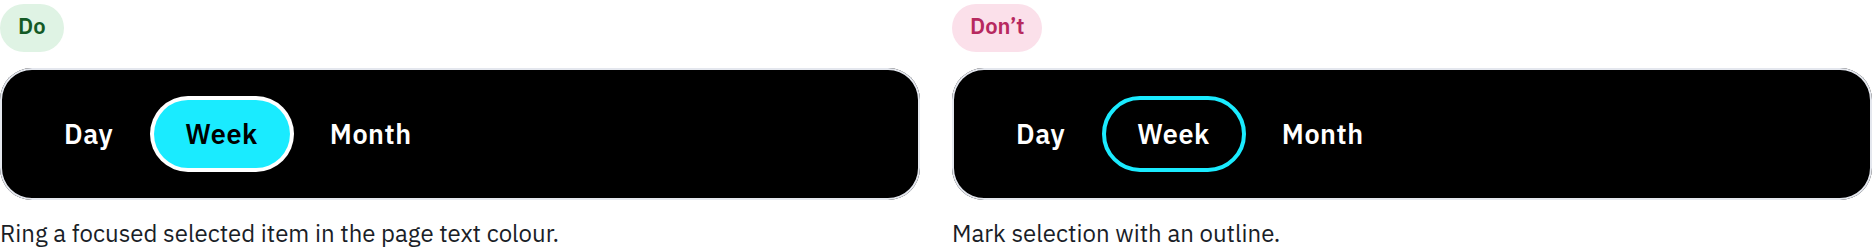
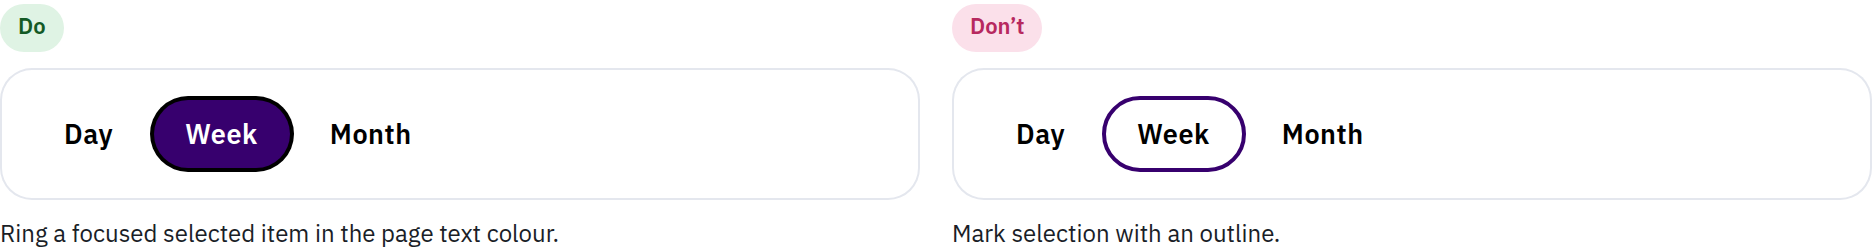
Show High Contrast White on the light forced-colours pair (#768)
The ring walk measured the light theme's ring on the black canvas at
2.86:1. The light page now shows Windows High Contrast White, and the
dark page keeps High Contrast Black.

diff --git a/stories/guidelines/_colour-and-theming.js b/stories/guidelines/_colour-and-theming.js
@@ -15,12 +15,19 @@ export const SPEC_CSS = `
     .gl-literal .ui-callout__icon { color: #20dcf5; }
     .gl-drift { --pink: var(--accent); }
     .gl-grey .ui-input { background: var(--surface-2); border-color: transparent; }
-    /* Windows High Contrast Black, fixed: forced colours ignore the kit theme, and JSDOM's
-       own system colours are not the ones a browser paints, so the walk measures
-       these: canvas #000, text #fff, highlight #1aebff, highlight text #000. */
+    /* Windows High Contrast, written out: JSDOM's own system colours are not the ones
+       a browser paints. Dark shows High Contrast Black (canvas #000, text #fff,
+       highlight #1aebff, highlight text #000). Light shows High Contrast White
+       (canvas #fff, text #000, highlight #37006e, highlight text #fff), because the
+       ring walk measures the light theme's ring on this canvas. */
     .gl-forced { background: #000; color: #fff; padding: var(--space-3); }
     .gl-forced .ui-seg { background: #000; border-color: #fff; }
     .gl-forced .ui-seg button { background: #000; color: #fff; }
     .gl-forced--fill .ui-seg button[aria-pressed="true"] { background: #1aebff; color: #000; box-shadow: 0 0 0 2px #fff; }
     .gl-forced--outline .ui-seg button[aria-pressed="true"] { outline: 2px solid #1aebff; }
+    [data-theme="light"] .gl-forced { background: #fff; color: #000; }
+    [data-theme="light"] .gl-forced .ui-seg { background: #fff; border-color: #000; }
+    [data-theme="light"] .gl-forced .ui-seg button { background: #fff; color: #000; }
+    [data-theme="light"] .gl-forced--fill .ui-seg button[aria-pressed="true"] { background: #37006e; color: #fff; box-shadow: 0 0 0 2px #000; }
+    [data-theme="light"] .gl-forced--outline .ui-seg button[aria-pressed="true"] { outline-color: #37006e; }
   </style>`;
